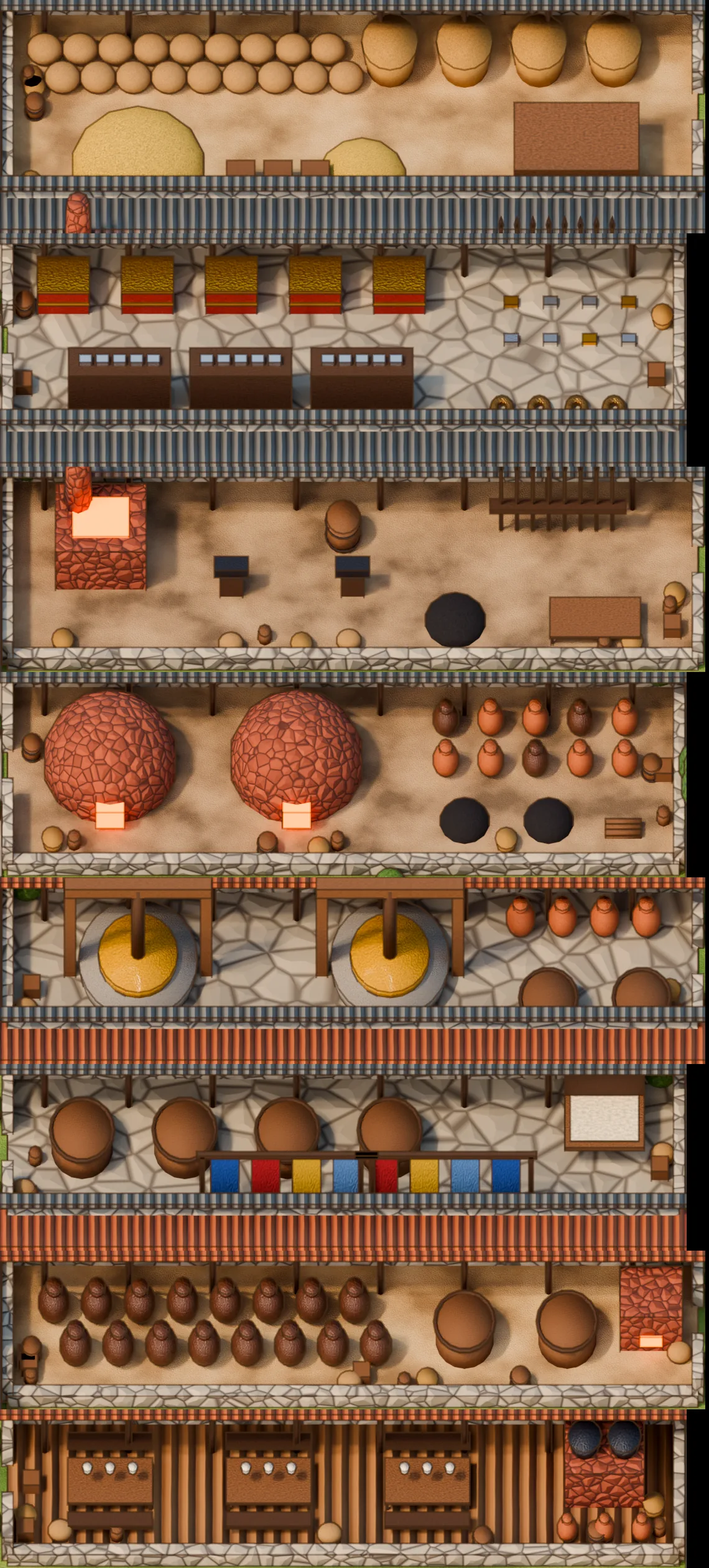
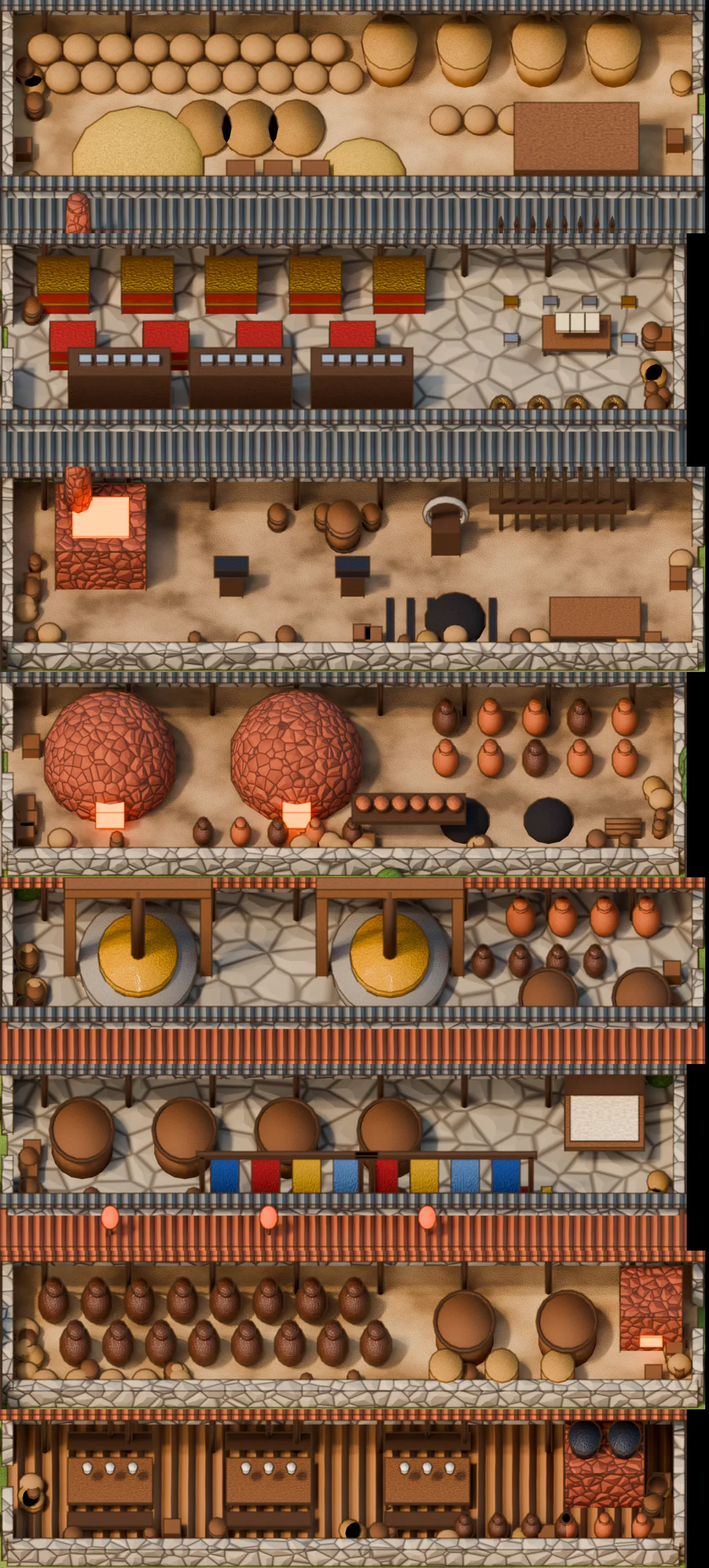
t250 art pass 2: denser compound rooms (second prop layer, more clutter), taller cutaway walls

diff --git a/index.html b/index.html
@@ -4356,4 +4356,4 @@ window.__sw={
   cturn:cbotTurn,cg(){return CG;},cbot:{develop:cbotDevelop,recruit:cbotRecruit,march:cbotMarch,promote:cbotPromote},
 };
 </script><script src="frontier.js?v=0.21"></script><script src="campaign-ui.js"></script><script src="battlefields.js?v=0.23"></script><script src="song-music.js"></script><script src="medical.js"></script><script src="journey.js?v=0.15.1"></script><script src="supply.js"></script><script src="companions.js"></script><script src="refit.js"></script><script src="missions.js?v=0.15.1"></script><script src="frontier-war.js?v=0.20"></script><script src="production.js?v=0.16"></script><script src="spoils.js"></script><script src="history.js"></script><script src="jin-campaign.js?v=0.20"></script><script src="field-command.js"></script><script src="dynasty.js?v=0.25"></script><script src="realm-resources.js?v=0.17"></script><script src="dynasty-ui.js?v=0.25"></script><script src="council.js?v=0.18"></script><script src="town-models.js?v=0.17"></script><script src="production-cards.js?v=0.18"></script><script src="muster.js?v=0.18"></script><script src="banner-orders.js?v=0.19"></script><script src="banner-ui.js?v=0.19"></script><script src="npc-economy.js?v=0.20"></script><script src="campaign-art.js?v=0.21.1"></script><script src="chronicle-data.js?v=0.22"></script><script src="chronicle.js?v=0.22"></script><script src="chronicle-ui.js?v=0.22"></script><script src="tactics.js?v=0.23"></script><script src="tactics-ui.js?v=0.23"></script><script src="politics.js?v=0.25"></script><script src="politics-ui.js?v=0.24"></script><script src="map-cache.js?v=0.25"></script><script src="village-motion.js?v=0.25"></script><script src="balance.js?v=0.25"></script><script src="coach-fix.js?v=0.25"></script><script src="ledger.js?v=0.25"></script><script src="ui-fixes.js?v=0.28"></script>
-<script src="compound.js?v=0.27"></script></body></html>
+<script src="compound.js?v=0.28"></script></body></html>

diff --git a/compound.js b/compound.js
@@ -6,7 +6,7 @@
 const CPD={W:1800,H:1120,img:{},tier:null,on:(()=>{try{return localStorage.getItem('sw_compound')!=='0';}catch(e){return true;}})(),wk:null,
   // room rects in village world px (match art/compound.py ROOMS); crop rects add the north wall and a little margin
   R:{granary:[90,70,830,300],treasury:[990,70,1710,300],smithy:[90,310,830,510],kiln:[990,310,1710,510],press:[90,610,830,790],dye:[990,610,1710,790],brewery:[90,800,830,950],tea:[990,800,1710,950]},
-  V:'t250a'};
+  V:'t250b'};
 CPD.NAME={granary:['粮仓','Granary'],treasury:['大宋官库','Treasury'],smithy:['铁匠铺','Smithy'],kiln:['炭窑与陶作','Charcoal kiln & pottery'],press:['香膏油坊','Oil press & beauty workshop'],
   dye:['织染坊','Loom & dye house'],brewery:['酒坊','Brewery'],tea:['清河酒楼','Tea house & restaurant']};
 function cpdBiz(s,k){return s?.businesses?.[k]?.level||0;}
